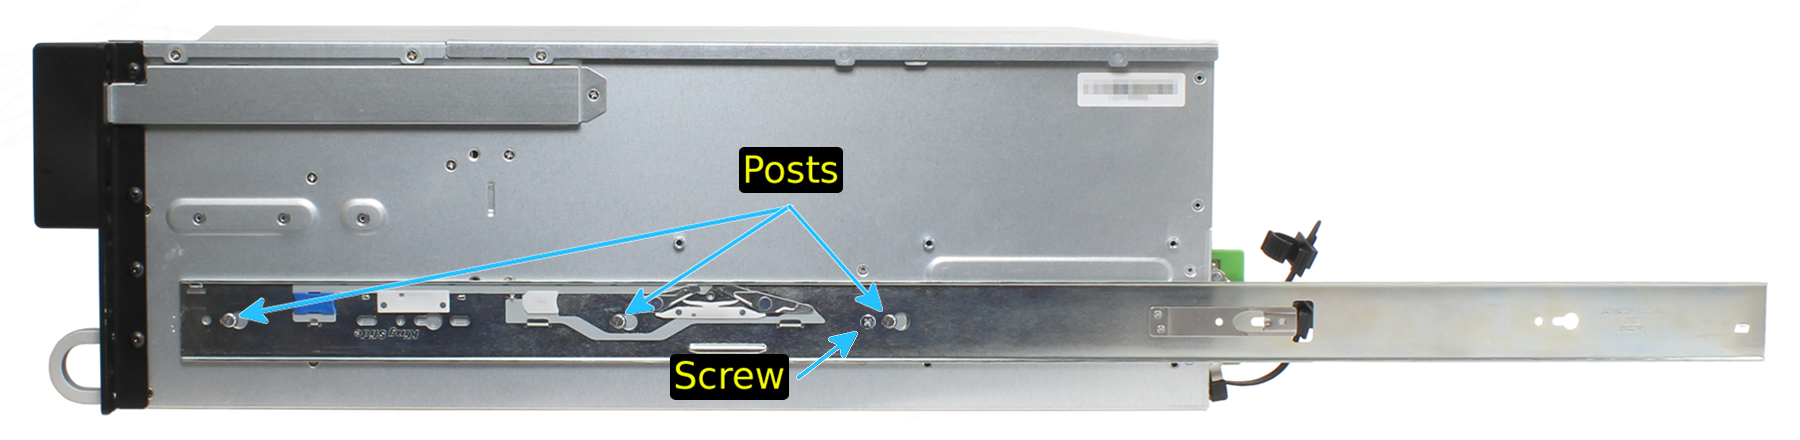
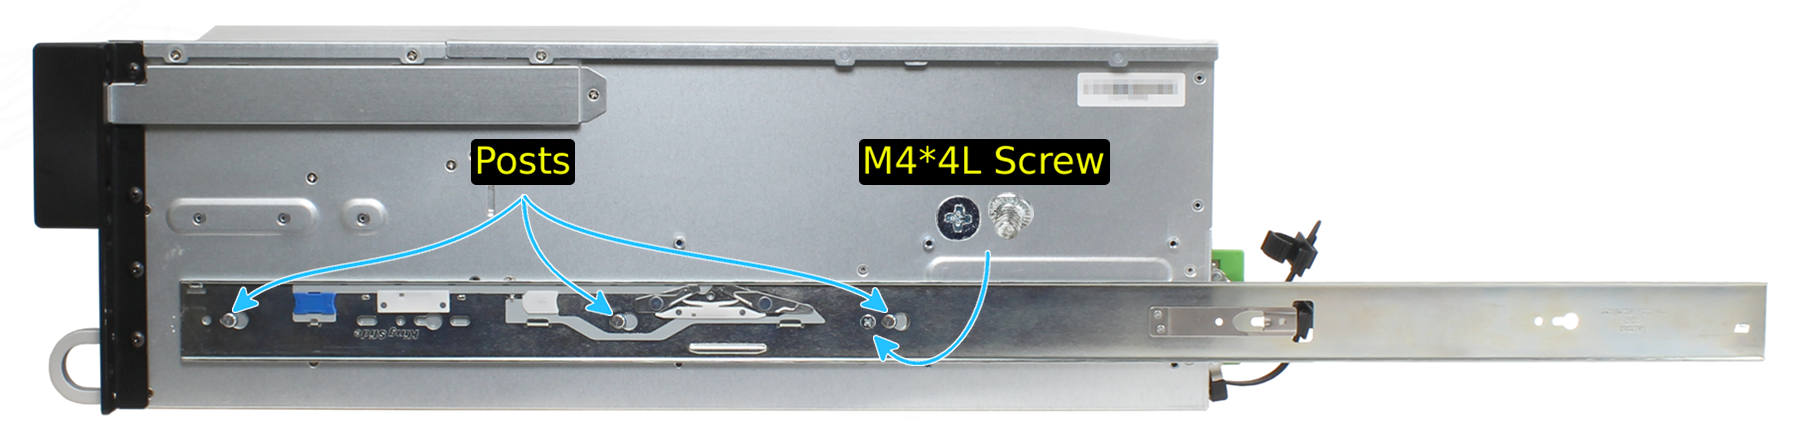
Improve and combine some images

diff --git a/userguide/snippets/es24.rst b/userguide/snippets/es24.rst
@@ -113,8 +113,8 @@ Mount Cabinet Rails
 ^^^^^^^^^^^^^^^^^^^
 
 The cabinet rails are mounted on both sides of the system. Align the
-cabinet rail keyhole with the post on the side of the chassis and pull
-the rail until the post is wedged in the smaller hole.
+cabinet rail keyholes with the three posts on the side of the chassis
+and pull the rail until the post is wedged in the smaller hole.
 
 
 .. _cabinet_rail2:
@@ -122,7 +122,7 @@ the rail until the post is wedged in the smaller hole.
 
 
 Align the rail holes with the screw holes and secure the rail with
-three of the supplied cabinet screws included with the rail kit.
+one of the supplied cabinet screws included with the rail kit.
 Repeat this process on the other side.
 
 
@@ -130,16 +130,15 @@ Mount the Rack Rails
 ^^^^^^^^^^^^^^^^^^^^
 
 Place the rail in the rack with the front end toward the front of the
-rack, aligning the pins with the mounting holes in the front rack.
-Push the pins in the holes until the latch clicks. Secure rail in
-place with the front rail screw included in the rail kit. Repeat this
-process for the second front rail.
+rack, aligning the pins with the mounting holes in the front of the
+rack. Push the pins into the holes until the latch clicks. Secure the
+rail in place with the front rail screw included in the rail kit.
+Repeat this process for the second front rail.
 
-Install two square cage nuts on the front end of the rack, one
-directly above the top rail pin and the other in the third rack hole
-above it. Repeat this process on the other front rail. The cage nuts
-will later support the screws used to secure the enclosure to the
-rack.
+Place one square cage nut with the tabs vertical into the front of
+the rack, directly below the top rail pin. Repeat this process on the
+other front rail. The cage nuts will later support the screws used to
+secure the enclosure to the rack.
 
 For the rear end of the rail, align the pins with the mounting holes
 on the rear rack. Pull the white latch toward the rear until the pins
@@ -178,16 +177,11 @@ pushing the unit in until it is flush with the front of the rack.
 
 .. _mount_system_in_rack:
 .. figure:: images/tn_es24_mount_system.png
-   :width: 30%
+   :width: 60%
 
 
 Anchor the unit in the rack on both sides with the screws included in
 the rail kit.
-
-
-.. _secure_system_in_rack:
-.. figure:: images/tn_es24_secure_unit.png
-   :width: 20%
 
 
 Install Drive Trays
@@ -245,11 +239,6 @@ farthest left Z series node 2 SAS connector (cable #2 in photo).
    SAS Cable Connection for One ES24
 
 
-.. raw:: latex
-
-   \newpage
-
-
 A second ES24 can also be connected to the Z series. Connect the first
 ES24 as shown above. Then connect the second ES24 SAS 0 ports to the
 next unused SAS ports on the Z series as shown:
@@ -272,9 +261,3 @@ Install Bezel (Optional)
 The included bezel is not required for operation. If desired, install
 the bezel by aligning it with the pins on the bezel ears and pressing
 it into place.
-
-
-.. raw:: latex
-
-   \newpage
-
